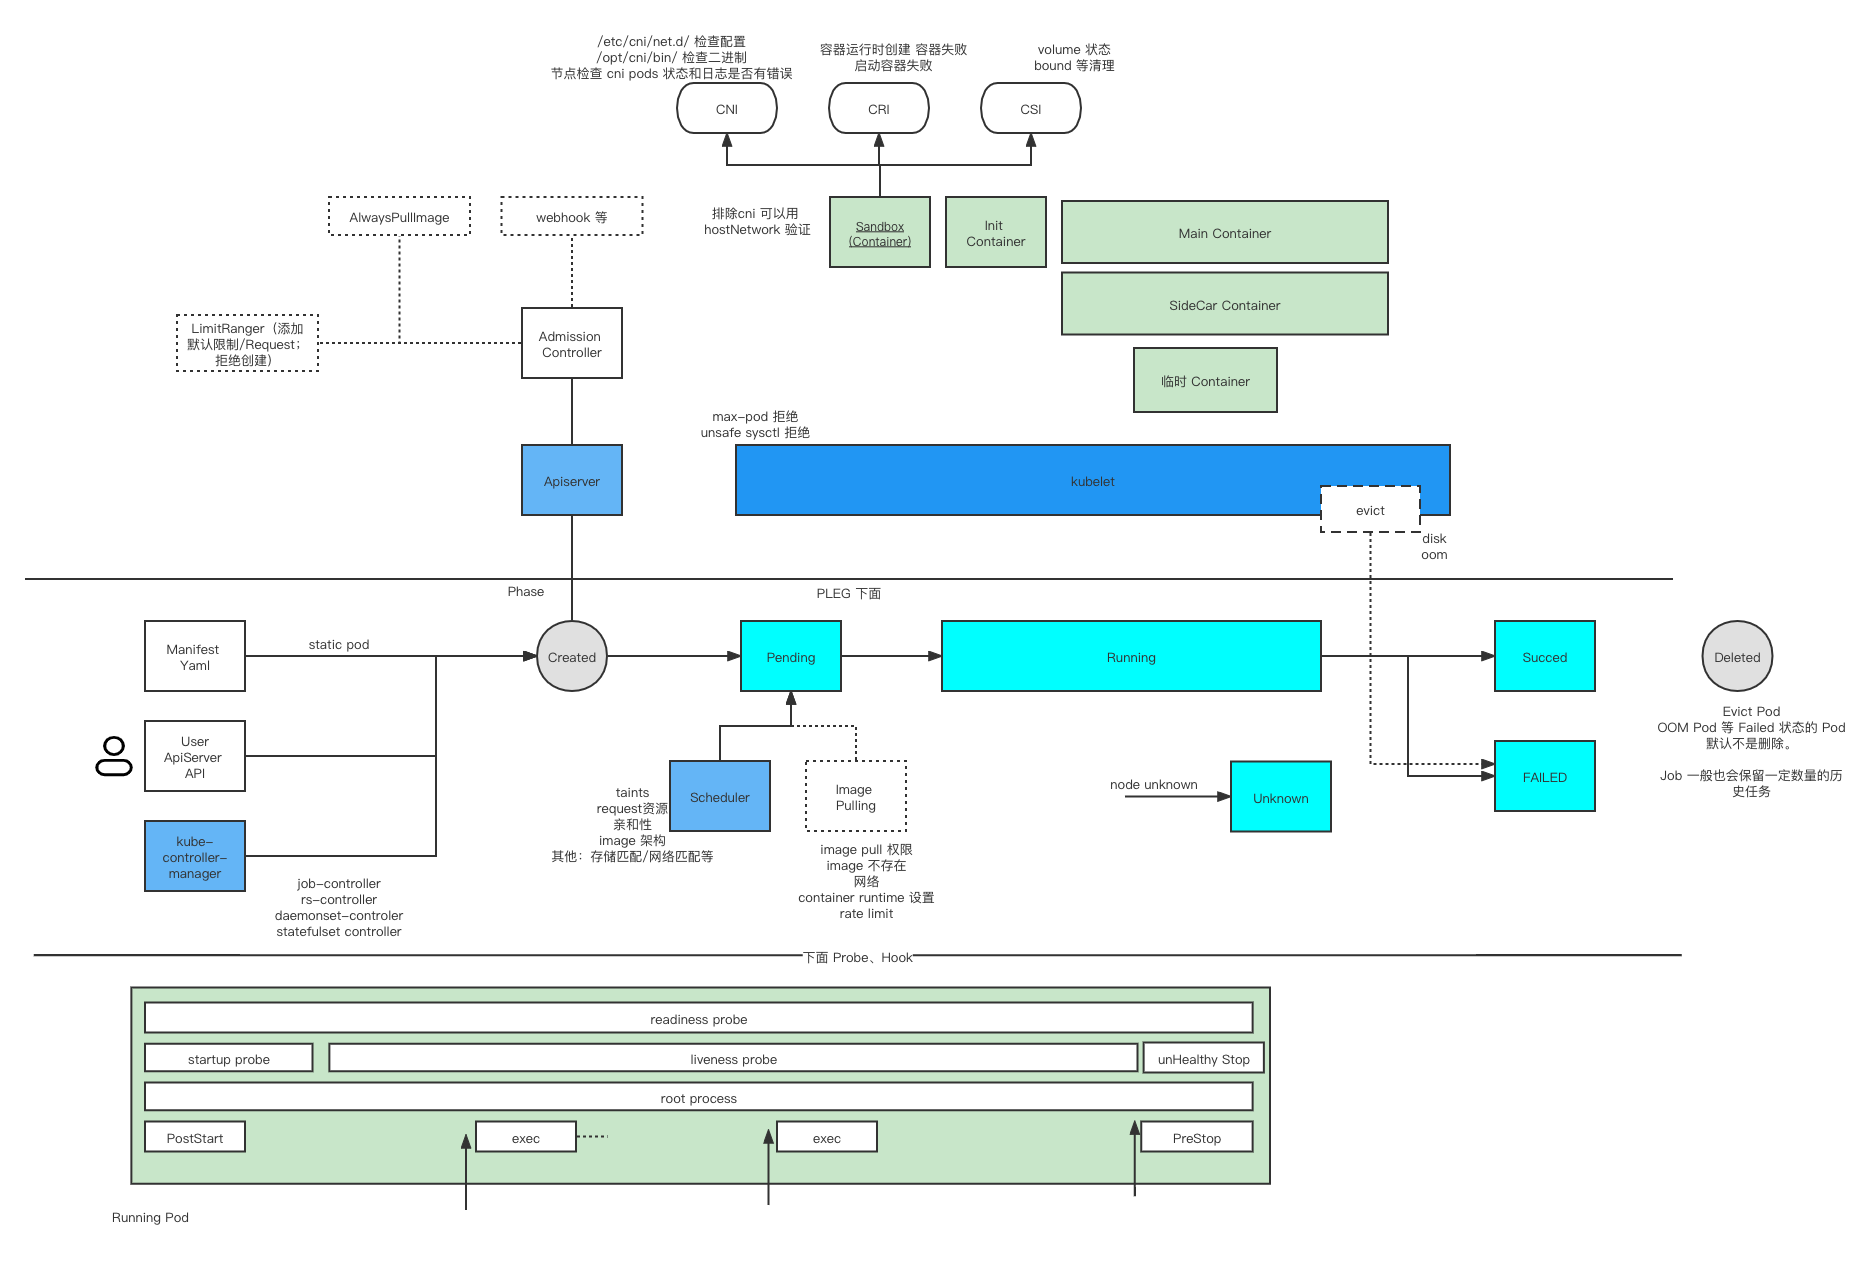
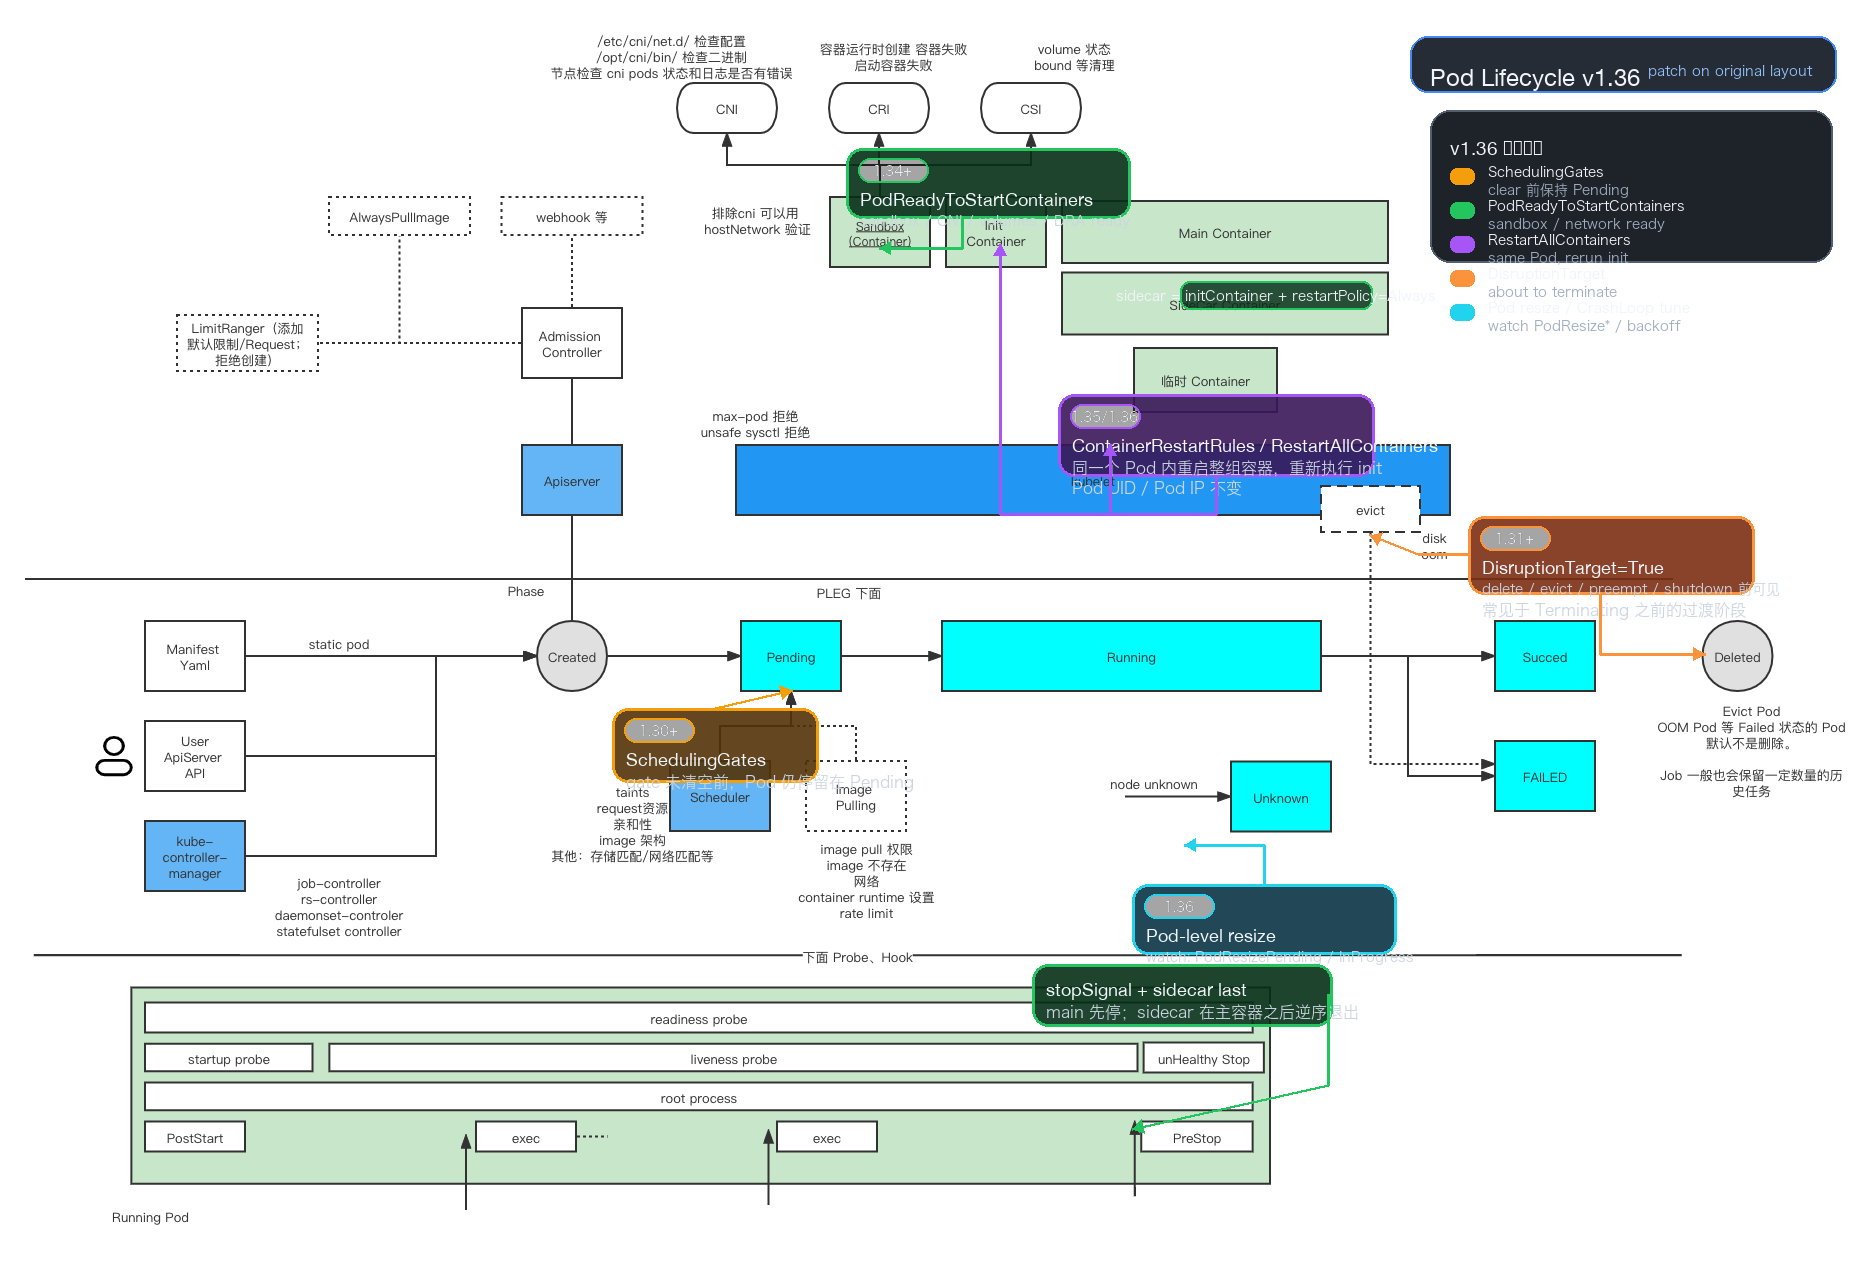
docs: update pod lifecycle for v1.36

diff --git a/docs/kubernetes/pod-lifecycle.md b/docs/kubernetes/pod-lifecycle.md
@@ -1,7 +1,7 @@
 ---
 status: Active
 maintainer: pacoxu
-last_updated: 2026-03-24
+last_updated: 2026-05-11
 tags: kubernetes, pod, lifecycle, scheduling, restart-policy, KEP-5307, KEP-5532
 canonical_path: docs/kubernetes/pod-lifecycle.md
 ---
@@ -36,6 +36,11 @@ for several key reasons:
 
 ![pod-lifecycle](../../diagrams/pod-lifecycle.png)
 
+Updated for Kubernetes v1.36. The diagram now includes `SchedulingGates`,
+`PodReadyToStartContainers`, container-level restart rules,
+`RestartAllContainers`, `DisruptionTarget`, sidecar shutdown ordering, and
+Pod resize conditions.
+
 In Kubernetes, a Pod goes through several standard lifecycle **phases**.
 These phases describe the high-level status of the Pod, not the state of
 individual containers.
@@ -68,16 +73,19 @@ Reality Check" - [KubeCon NA 2025](https://sched.co/28D8Z)*
 
 ---
 
-## Recent Enhancements to Pod Lifecycle (Kubernetes 1.35+)
+## Pod Lifecycle Highlights (Kubernetes 1.36)
 
-The Kubernetes community continues to enhance Pod lifecycle management. Two
-significant enhancements are targeting Kubernetes 1.35:
+By Kubernetes 1.36, several Pod lifecycle enhancements are either stable or
+enabled by default, and they are important enough to model directly in the
+diagram and in day-2 troubleshooting:
 
 <img src="https://github.com/user-attachments/assets/1cc61c54-6cde-4bda-ab88-6c6568aa51b0" alt="restartPolicy may be enough">
 
 *Source: KubeCon NA 2025 SIG-Node Maintainer Track*
 
 ### 1. SchedulingGates
+
+**Status**: FEATURE STATE: Kubernetes v1.30 [stable]
 
 SchedulingGates allow you to control when a Pod should be scheduled. By
 adding scheduling gates, you can keep a Pod in the "Pending" phase until
@@ -91,7 +99,7 @@ certain conditions are met, preventing premature scheduling.
 
 ### 2. Container Restart Rules (KEP-5307)
 
-**Status**: Targeting Beta in Kubernetes 1.35
+**Status**: FEATURE STATE: Kubernetes v1.35 [beta] (enabled by default)
 
 [KEP-5307](https://github.com/kubernetes/enhancements/blob/master/keps/sig-node/5307-container-restart-policy/README.md)
 introduces fine-grained container-level restart policy rules with more
@@ -130,7 +138,7 @@ policies](https://mp.weixin.qq.com/s/X_yhEtvkYh2RSp1F0p1UZA), including:
 
 ### 3. RestartAllContainers Action (KEP-5532)
 
-**Status**: Targeting Alpha in Kubernetes 1.35
+**Status**: FEATURE STATE: Kubernetes v1.36 [beta] (enabled by default)
 
 [KEP-5532](https://github.com/kubernetes/enhancements/blob/master/keps/sig-node/5532-restart-all-containers-on-container-exits/README.md)
 introduces a new action that can be triggered by container exits: restarting
@@ -154,7 +162,21 @@ all containers in a Pod.
 3. **Coordinated updates**: Enable containers to coordinate restarts when
    certain conditions are met
 
-## Restart Decision Runbook (Kubernetes 1.35+)
+### 4. Additional Conditions And Resize Signals Reflected In The v1.36 Diagram
+
+- **`PodReadyToStartContainers`**: A kubelet-managed condition that becomes
+  visible by default in Kubernetes 1.36 once sandbox creation, networking,
+  volume mounts, and dynamic resource allocation are complete.
+- **`DisruptionTarget`**: Indicates the Pod is about to be terminated because
+  of disruption such as eviction, preemption, or garbage collection.
+- **`PodResizePending` / `PodResizeInProgress`**: Expose in-place resize
+  progress directly on the Pod.
+- **Pod-level in-place resize**: Pod-level resources in `spec.resources`
+  reached Beta in Kubernetes 1.36. Pod-level resource changes are applied
+  in-place, while each container's `resizePolicy` still decides whether a
+  container restart is required for specific CPU or memory changes.
+
+## Restart Decision Runbook (Kubernetes 1.36)
 
 In production incidents, "Pod restarted" often mixes different events. Use this
 matrix first, then decide remediation:
@@ -554,6 +576,10 @@ containers can become sidecar containers with the new restart policy "always".
 
 ![pod-lifecycle](../../diagrams/pod-lifecycle.png)
 
+已按 Kubernetes v1.36 更新图示，补入了 `SchedulingGates`、
+`PodReadyToStartContainers`、容器级重启规则、`RestartAllContainers`、
+`DisruptionTarget`、sidecar 终止顺序，以及 Pod resize 条件。
+
 在 Kubernetes 中，Pod 经历几个标准生命周期**阶段**。这些阶段描述的是 Pod
 的高级状态，而不是单个容器的状态。
 
@@ -581,16 +607,18 @@ Reality Check" - [KubeCon NA 2025](https://sched.co/28D8Z)*
 
 ---
 
-## Pod 生命周期的近期增强（Kubernetes 1.35+）
+## Pod 生命周期的关键增强（Kubernetes 1.36）
 
-Kubernetes 社区持续增强 Pod 生命周期管理。两个重要的增强特性正在针对
-Kubernetes 1.35 版本开发：
+到 Kubernetes 1.36 为止，多个 Pod 生命周期相关增强已经进入 stable 或默认开启
+的 beta，值得直接体现在生命周期图和日常排障模型里：
 
 <img src="https://github.com/user-attachments/assets/1cc61c54-6cde-4bda-ab88-6c6568aa51b0" alt="restartPolicy 可能就足够了">
 
 *来源：KubeCon NA 2025 SIG-Node 维护者分会*
 
 ### 1. SchedulingGates（调度门控）
+
+**状态**：FEATURE STATE: Kubernetes v1.30 [stable]
 
 SchedulingGates 允许您控制何时应调度 Pod。通过添加调度门控，您可以将 Pod
 保持在"Pending"阶段，直到满足某些条件，防止过早调度。
@@ -603,7 +631,7 @@ SchedulingGates 允许您控制何时应调度 Pod。通过添加调度门控，
 
 ### 2. Container Restart Rules（容器重启规则，KEP-5307）
 
-**状态**：目标是在 Kubernetes 1.35 中达到 Beta 阶段
+**状态**：FEATURE STATE: Kubernetes v1.35 [beta]（默认开启）
 
 [KEP-5307](https://github.com/kubernetes/enhancements/blob/master/keps/sig-node/5307-container-restart-policy/README.md)
 引入了细粒度的容器级重启策略规则，比传统的 Pod
@@ -636,7 +664,7 @@ SchedulingGates 允许您控制何时应调度 Pod。通过添加调度门控，
 
 ### 3. RestartAllContainers Action（重启所有容器动作，KEP-5532）
 
-**状态**：目标是在 Kubernetes 1.35 中达到 Alpha 阶段
+**状态**：FEATURE STATE: Kubernetes v1.36 [beta]（默认开启）
 
 [KEP-5532](https://github.com/kubernetes/enhancements/blob/master/keps/sig-node/5532-restart-all-containers-on-container-exits/README.md)
 引入了一个可以由容器退出触发的新动作：重启 Pod 中的所有容器。
@@ -655,7 +683,19 @@ SchedulingGates 允许您控制何时应调度 Pod。通过添加调度门控，
 2. **依赖管理**：当关键 sidecar 失败时，重启所有容器以确保一致状态
 3. **协调更新**：使容器能够在满足某些条件时协调重启
 
-## 重启判定 Runbook（Kubernetes 1.35+）
+### 4. v1.36 图中额外体现的条件与 Resize 信号
+
+- **`PodReadyToStartContainers`**：kubelet 管理的条件；在 Kubernetes 1.36
+  默认可见，表示 sandbox 创建、网络配置、卷挂载以及动态资源分配已经完成。
+- **`DisruptionTarget`**：表示 Pod 即将因为驱逐、抢占或垃圾回收等 disruption
+  而终止。
+- **`PodResizePending` / `PodResizeInProgress`**：直接在 Pod 上暴露原地 resize
+  的进度。
+- **Pod 级原地 resize**：`spec.resources` 的 Pod 级资源原地调整在 Kubernetes
+  1.36 进入 Beta。Pod 级资源本身原地生效，但每个容器的 `resizePolicy`
+  仍决定特定 CPU / memory 变化是否需要重启容器。
+
+## 重启判定 Runbook（Kubernetes 1.36）
 
 在生产故障里，“Pod 重启了”常常混淆了多种事件。建议先用下表判定，再决定处理动作：
 